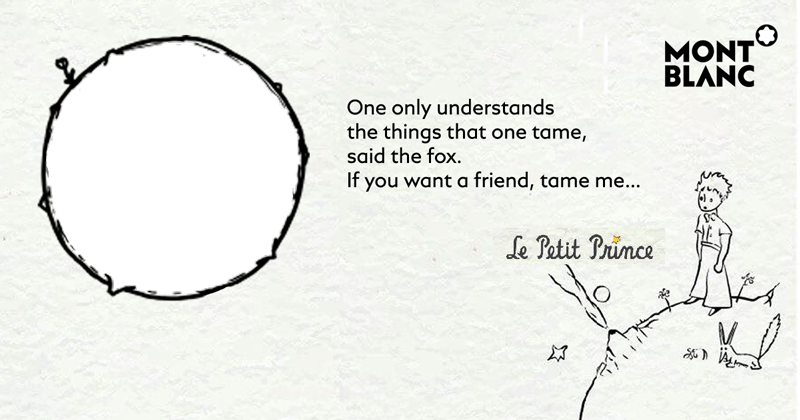
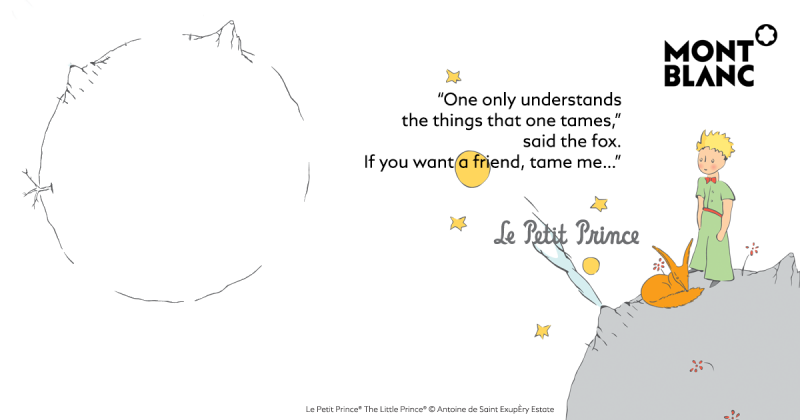
เปลี่ยน design บัตร , validate ชื่อ
ทำให้ชื่อพิมพ์ภาษาอังกฤษได้อย่างเดียว

diff --git a/step2.php b/step2.php
@@ -18,7 +18,8 @@ $arrImageTemplates = array(
     'img-templates/1.png',
     'img-templates/2.png',
     'img-templates/3.png',
-    'img-templates/4.png'
+    'img-templates/4.png',
+    'img-templates/5.png'
 );
 
 $imageTemplate = $arrImageTemplates[array_rand($arrImageTemplates,1)];
@@ -26,7 +27,7 @@ $ImageProfile = "avatar/" . $fbId . ".jpg";
 
 
 
-$FacebookImage = imgMergeForFB($ImageProfile, $imageTemplate, true , 260, 260, 40, 40);
+$FacebookImage = imgMergeForFB($ImageProfile, $imageTemplate, true , 272, 272, 40, 30);
 
 
 
@@ -60,7 +61,8 @@ QRcode::png($ucode, $qrFile, 'L', 4, 2);
 //$AlmostFinish = $FacebookImage;
 //$FacebookImage = imgMergeForFB($AlmostFinish , $qrFile, 100,100, 80, 320);
 $FinalImage = "ogimage/" . $ucode . ".png";
-mergeImage($qrFile, $FacebookImage, $FinalImage,118,312);
+//mergeImage($qrFile, $FacebookImage, $FinalImage,118,312);
+mergeImage($qrFile, $FacebookImage, $FinalImage,40,312);
 
 $sql = "update montblanc_fbuser set fbog='$FinalImage' where ucode='$ucode' and fbid='$fbId' ";
 $stmt = $dbh->prepare($sql);
@@ -163,7 +165,7 @@ function mergeImage($imgForeground, $imgBackground, $imgFinish, $x, $y ){
 </div>
 
 <div class="row justify-content-center">
-    <div class="col-md-6">
+    <div class="col-md-8">
         <img src='<? echo $FinalImage;?>' class="fbog" />
     </div>
 </div>
@@ -174,22 +176,28 @@ function mergeImage($imgForeground, $imgBackground, $imgFinish, $x, $y ){
 </div>
 <div class="row justify-content-center">
     <div class="col-md-4 text-center">
-        ชื่อ
+        ชื่อ 
     </div>
 </div>
 <div class="row justify-content-center">
     <div class="col-md-4 ">
-        <input type="text" name="firstname">
+        <input type="text" name="firstname"
+        pattern="[a-zA-Z]{2,}" 
+            placeholder="ภาษาอังกฤษเท่านั้น"
+            title="กรุณากรอกช่องข้อความเป็นภาษาอังกฤษ" />
     </div>
 </div>
 <div class="row justify-content-center">
     <div class="col-md-4 text-center">
-       นามสกุล
+       นามสกุล 
     </div>
 </div>
 <div class="row justify-content-center">
     <div class="col-md-4 ">
-        <input type="text" name="lastname">
+        <input type="text" name="lastname" 
+            pattern="[a-zA-Z]{2,}" 
+            placeholder="ภาษาอังกฤษเท่านั้น"
+            title="กรุณากรอกช่องข้อความเป็นภาษาอังกฤษ" />
     </div>
 </div>
 <div class="small-space"></div>

diff --git a/step3.php b/step3.php
@@ -90,7 +90,7 @@ $FacebookImage = $_SESSION['FacebookImage'];
 </div>
 
 <div class="row justify-content-center">
-    <div class="col-md-6">
+    <div class="col-md-8">
         <img src='<? echo $FacebookImage;?>' class="fbog" />
     </div>
 </div>
@@ -99,7 +99,7 @@ $FacebookImage = $_SESSION['FacebookImage'];
         <h3 class=" text-center">คุณลงทะเบียนแฟนพันธุ์แท้ <br>เจ้าชายน้อย เรียบร้อยแล้ว</h3>
         <span>
         แล้วไปพบกันในงานเปิดตัว ปากกา  Montblanc Le Petit Prince collection 
-พร้อมลุ้นเป็นผู้โชคดีที่จะได้เป็นเจ้าของ ปากกา  Montblanc Le Petit Prince collection มูลค่า 45,000 บาท
+พร้อมลุ้นเป็นผู้โชคดีที่จะได้เป็นเจ้าของ ปากกา  Montblanc Le Petit Prince collection มูลค่ากว่า 40,000 บาท
 ในวันที่ 25 กรกฎาคม 2561 ชั้น M ลานจัดงาน Hall of Mirrors  ศูนย์การค้าสยามพารากอน ตั้งแต่เวลา 17.00 – 20.00 น. 
 
 </span>

diff --git a/index.php b/index.php
@@ -57,7 +57,7 @@ if(!isNaN(uid)){
 <div class="row justify-content-center">
     <div class="col-md-6 text-center">
         <h3>ลุ้นเป็นผู้โชคดีที่จะได้เป็นเจ้าของ ปากกา Montblanc Le Petit Prince collection
-			<br> มูลค่า 45,000 บาท
+			<br> มูลค่ากว่า 40,000 บาท
 
 	</h3>
     </div>

diff --git a/_image_engine.php b/_image_engine.php
@@ -54,7 +54,7 @@ function imgMergeForFB(
     imagecopy($canvas, $frame, 0, 0, 0, 0, $frame_width, $frame_height);
 
     
-    $FileFinish = 'avatar-temp/' . $onlyFileName . '-' . date('YmdHisv') . '.png';
+    $FileFinish = 'avatar-temp/' . $onlyFileName . '-' . date('YmdHis-u') . '.png';
     imagepng($canvas, $FileFinish);
 
     // destroy images to free alocated memory
